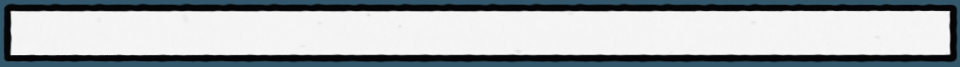
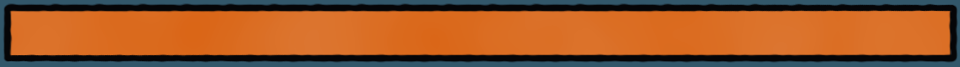
changed nav background to orange and related text/link colors

diff --git a/wp/wp-content/themes/modernize-child/style.css b/wp/wp-content/themes/modernize-child/style.css
@@ -277,34 +277,42 @@ div.gallery-thumbnail-image img {
 .footer-wrapper div p {
   margin: 2px 0;
 }
+/* line 225, sass/style.scss */
+.footer-wrapper div a {
+  color: #fff8d8;
+}
 /* line 226, sass/style.scss */
+.footer-wrapper div a:hover {
+  color: #32576a;
+}
+/* line 228, sass/style.scss */
 .footer-wrapper #footer1 {
   margin: 10px 0 0 20px;
 }
-/* line 227, sass/style.scss */
+/* line 229, sass/style.scss */
 .footer-wrapper #footer2 {
   width: 100px;
   padding: 0 0 0 70px;
 }
-/* line 230, sass/style.scss */
+/* line 232, sass/style.scss */
 .footer-wrapper #footer2 a {
   width: 20%;
   float: left;
   padding: 0 0 20px 20%;
 }
-/* line 236, sass/style.scss */
+/* line 238, sass/style.scss */
 .footer-wrapper #footer3 {
   clear: left;
   padding: 16px 20px 0 0;
 }
 
-/* line 246, sass/style.scss */
+/* line 248, sass/style.scss */
 div.responsive-menu-wrapper {
   width: 80%;
   margin: 0 auto;
   display: block;
 }
-/* line 250, sass/style.scss */
+/* line 252, sass/style.scss */
 div.responsive-menu-wrapper #menu-main {
   font-family: "Valeria Round", Verdana, Arial, sans-serif;
   font-size: 18px;
@@ -312,34 +320,34 @@ div.responsive-menu-wrapper #menu-main {
   color: #050507;
 }
 
-/* line 258, sass/style.scss */
+/* line 260, sass/style.scss */
 div.navigation-wrapper {
   display: none;
 }
 
-/* line 261, sass/style.scss */
+/* line 263, sass/style.scss */
 #menu-main, #menu-main-1 {
   font-family: "Walter Turncoat", Verdana, Arial, sans-serif;
   font-size: 15px;
   font-weight: 800;
   color: #050507;
 }
-/* line 266, sass/style.scss */
+/* line 268, sass/style.scss */
 #menu-main a, #menu-main-1 a {
   color: #050507;
 }
-/* line 267, sass/style.scss */
+/* line 269, sass/style.scss */
 #menu-main a:hover, #menu-main-1 a:hover {
-  color: #d96312;
+  color: #fff8d8;
 }
 
-/* line 276, sass/style.scss */
+/* line 278, sass/style.scss */
 .gce-page-list .gce-list p {
   /* Each piece of information in the list */
   margin: 0;
 }
 
-/* line 280, sass/style.scss */
+/* line 282, sass/style.scss */
 .gce-list li {
   list-style-type: none;
   margin: 20px 0;
@@ -347,29 +355,29 @@ div.navigation-wrapper {
   border-bottom: 1px solid #5a5a7e;
 }
 
-/* line 291, sass/style.scss */
+/* line 293, sass/style.scss */
 ul.booze li {
   margin: 4px 0;
 }
 
-/* line 295, sass/style.scss */
+/* line 297, sass/style.scss */
 #homeEvents ul, #homeEvents .gce-page-list li {
   border: none;
 }
-/* line 296, sass/style.scss */
+/* line 298, sass/style.scss */
 #homeEvents p.bumpDown {
   margin-top: 20px;
 }
-/* line 297, sass/style.scss */
+/* line 299, sass/style.scss */
 #homeEvents h4 {
   color: #32576a;
 }
 
-/* line 302, sass/style.scss */
+/* line 304, sass/style.scss */
 #blog-item-holder .blog-item2 {
   padding: 0;
 }
-/* line 303, sass/style.scss */
+/* line 305, sass/style.scss */
 #blog-item-holder .blog-thumbnail-info {
   font-size: 14px;
   color: #32576a;
@@ -378,58 +386,58 @@ ul.booze li {
 
 /* RESPONSIVE SETTINGS */
 @media screen and (min-width: 770px) {
-  /* line 309, sass/style.scss */
+  /* line 311, sass/style.scss */
   #header h1 {
     font-size: 32px;
     margin: 10px 0 10px 0;
     text-shadow: 4px 4px 0px #000;
     filter: dropshadow(color=white, offx=4, offy=4);
   }
-  /* line 315, sass/style.scss */
+  /* line 317, sass/style.scss */
   #header p {
     font-size: 16px;
     margin: 10px 0 30px 0;
   }
 }
 @media screen and (min-width: 770px) {
-  /* line 323, sass/style.scss */
+  /* line 325, sass/style.scss */
   #header {
     background-image: url("images/header.png");
     text-align: left;
   }
-  /* line 326, sass/style.scss */
+  /* line 328, sass/style.scss */
   #header h1 {
     font-size: 48px;
     margin: 50px 0 10px 10px;
   }
-  /* line 330, sass/style.scss */
+  /* line 332, sass/style.scss */
   #header p {
     font-size: 18px;
     margin: 20px 0 40px 40px;
   }
 }
 @media screen and (min-width: 1000px) {
-  /* line 339, sass/style.scss */
+  /* line 341, sass/style.scss */
   #header h1 {
     font-size: 58px;
     margin: 50px 0 10px 20px;
   }
-  /* line 343, sass/style.scss */
+  /* line 345, sass/style.scss */
   #header p {
     font-size: 22px;
     margin: 20px 0 40px 60px;
   }
 
-  /* line 350, sass/style.scss */
+  /* line 352, sass/style.scss */
   div.responsive-menu-wrapper {
     display: none;
   }
 
-  /* line 353, sass/style.scss */
+  /* line 355, sass/style.scss */
   div.navigation-wrapper {
     display: block;
   }
-  /* line 355, sass/style.scss */
+  /* line 357, sass/style.scss */
   div.navigation-wrapper #menu-main-1 {
     font-size: 13px;
     width: 960px;
@@ -441,63 +449,63 @@ ul.booze li {
     background-repeat: no-repeat;
     background-position: top center;
   }
-  /* line 365, sass/style.scss */
+  /* line 367, sass/style.scss */
   div.navigation-wrapper #menu-main-1 li {
     margin: 10px 0 0 0;
   }
 
-  /* line 370, sass/style.scss */
+  /* line 372, sass/style.scss */
   .footer-wrapper {
     overflow: hidden;
   }
-  /* line 372, sass/style.scss */
+  /* line 374, sass/style.scss */
   .footer-wrapper p {
     text-align: left;
   }
-  /* line 373, sass/style.scss */
+  /* line 375, sass/style.scss */
   .footer-wrapper #footer1 {
     width: 50%;
     float: left;
   }
-  /* line 378, sass/style.scss */
+  /* line 380, sass/style.scss */
   .footer-wrapper #footer2 {
     width: 10%;
     margin: 20px 0 0 0;
     float: left;
   }
-  /* line 384, sass/style.scss */
+  /* line 386, sass/style.scss */
   .footer-wrapper #footer3 {
     width: 25%;
     float: right;
     margin: -68px 0 0 0;
   }
-  /* line 388, sass/style.scss */
+  /* line 390, sass/style.scss */
   .footer-wrapper #footer3 p {
     text-align: right;
   }
 
-  /* line 392, sass/style.scss */
+  /* line 394, sass/style.scss */
   .body-wrapper {
     margin-top: 50px;
     margin-bottom: 40px;
   }
 
   /*Home Page*/
-  /* line 400, sass/style.scss */
+  /* line 402, sass/style.scss */
   #intro {
     clear: both;
     width: 80%;
     margin: 0 0 30px 10%;
   }
 
-  /* line 406, sass/style.scss */
+  /* line 408, sass/style.scss */
   #postcard {
     width: 40%;
     float: left;
     margin: 0 0 40px 5%;
   }
 
-  /* line 413, sass/style.scss */
+  /* line 415, sass/style.scss */
   #quotes {
     width: 45%;
     float: left;
@@ -505,7 +513,7 @@ ul.booze li {
     text-align: right;
   }
 
-  /* line 420, sass/style.scss */
+  /* line 422, sass/style.scss */
   #homeEvents {
     width: 60%;
     float: left;
@@ -513,7 +521,7 @@ ul.booze li {
     margin: 40px 0 0 0;
   }
 
-  /* line 426, sass/style.scss */
+  /* line 428, sass/style.scss */
   #jeepers {
     width: 30%;
     float: right;
@@ -521,7 +529,7 @@ ul.booze li {
     text-align: left;
     margin: 20px 0 0 0;
   }
-  /* line 432, sass/style.scss */
+  /* line 434, sass/style.scss */
   #jeepers h4 {
     font-size: 90%;
     font-style: italic;

diff --git a/wp/wp-content/themes/modernize-child/sass/style.scss b/wp/wp-content/themes/modernize-child/sass/style.scss
@@ -222,6 +222,8 @@ div.gallery-thumbnail-image img{
   background-position: bottom center;
   div {
     p{margin: 2px 0;}
+    a {color:$cream;}
+    a:hover{color:$blue;}
   }
   #footer1 {margin: 10px 0 0 20px;}
   #footer2 {
@@ -264,7 +266,7 @@ div.gallery-thumbnail-image img{
     font-weight:800;
     color: $black;
     a {color:$black;}
-    a:hover {color: $orange;}
+    a:hover {color: $cream;}
   }
 
 

diff --git a/wp/wp-content/themes/modernize-child/footer.php b/wp/wp-content/themes/modernize-child/footer.php
@@ -4,7 +4,7 @@
            <strong>Cary's Lounge</strong>: 2251 West Devon Ave., Chicago, IL 60659  (773) 743-5737
         </p>
         <p>
-        <strong>Hours</strong>: Monday - Friday 12pm-2am; Saturday: 12pm-3am; Sunday: 11am-2am
+        <strong>Hours</strong>: Mon-Fri 12pm-2am; Saturday: 12pm-3am; Sunday: 11am-2am
         </p>
       </div>
       <div id="footer2">
